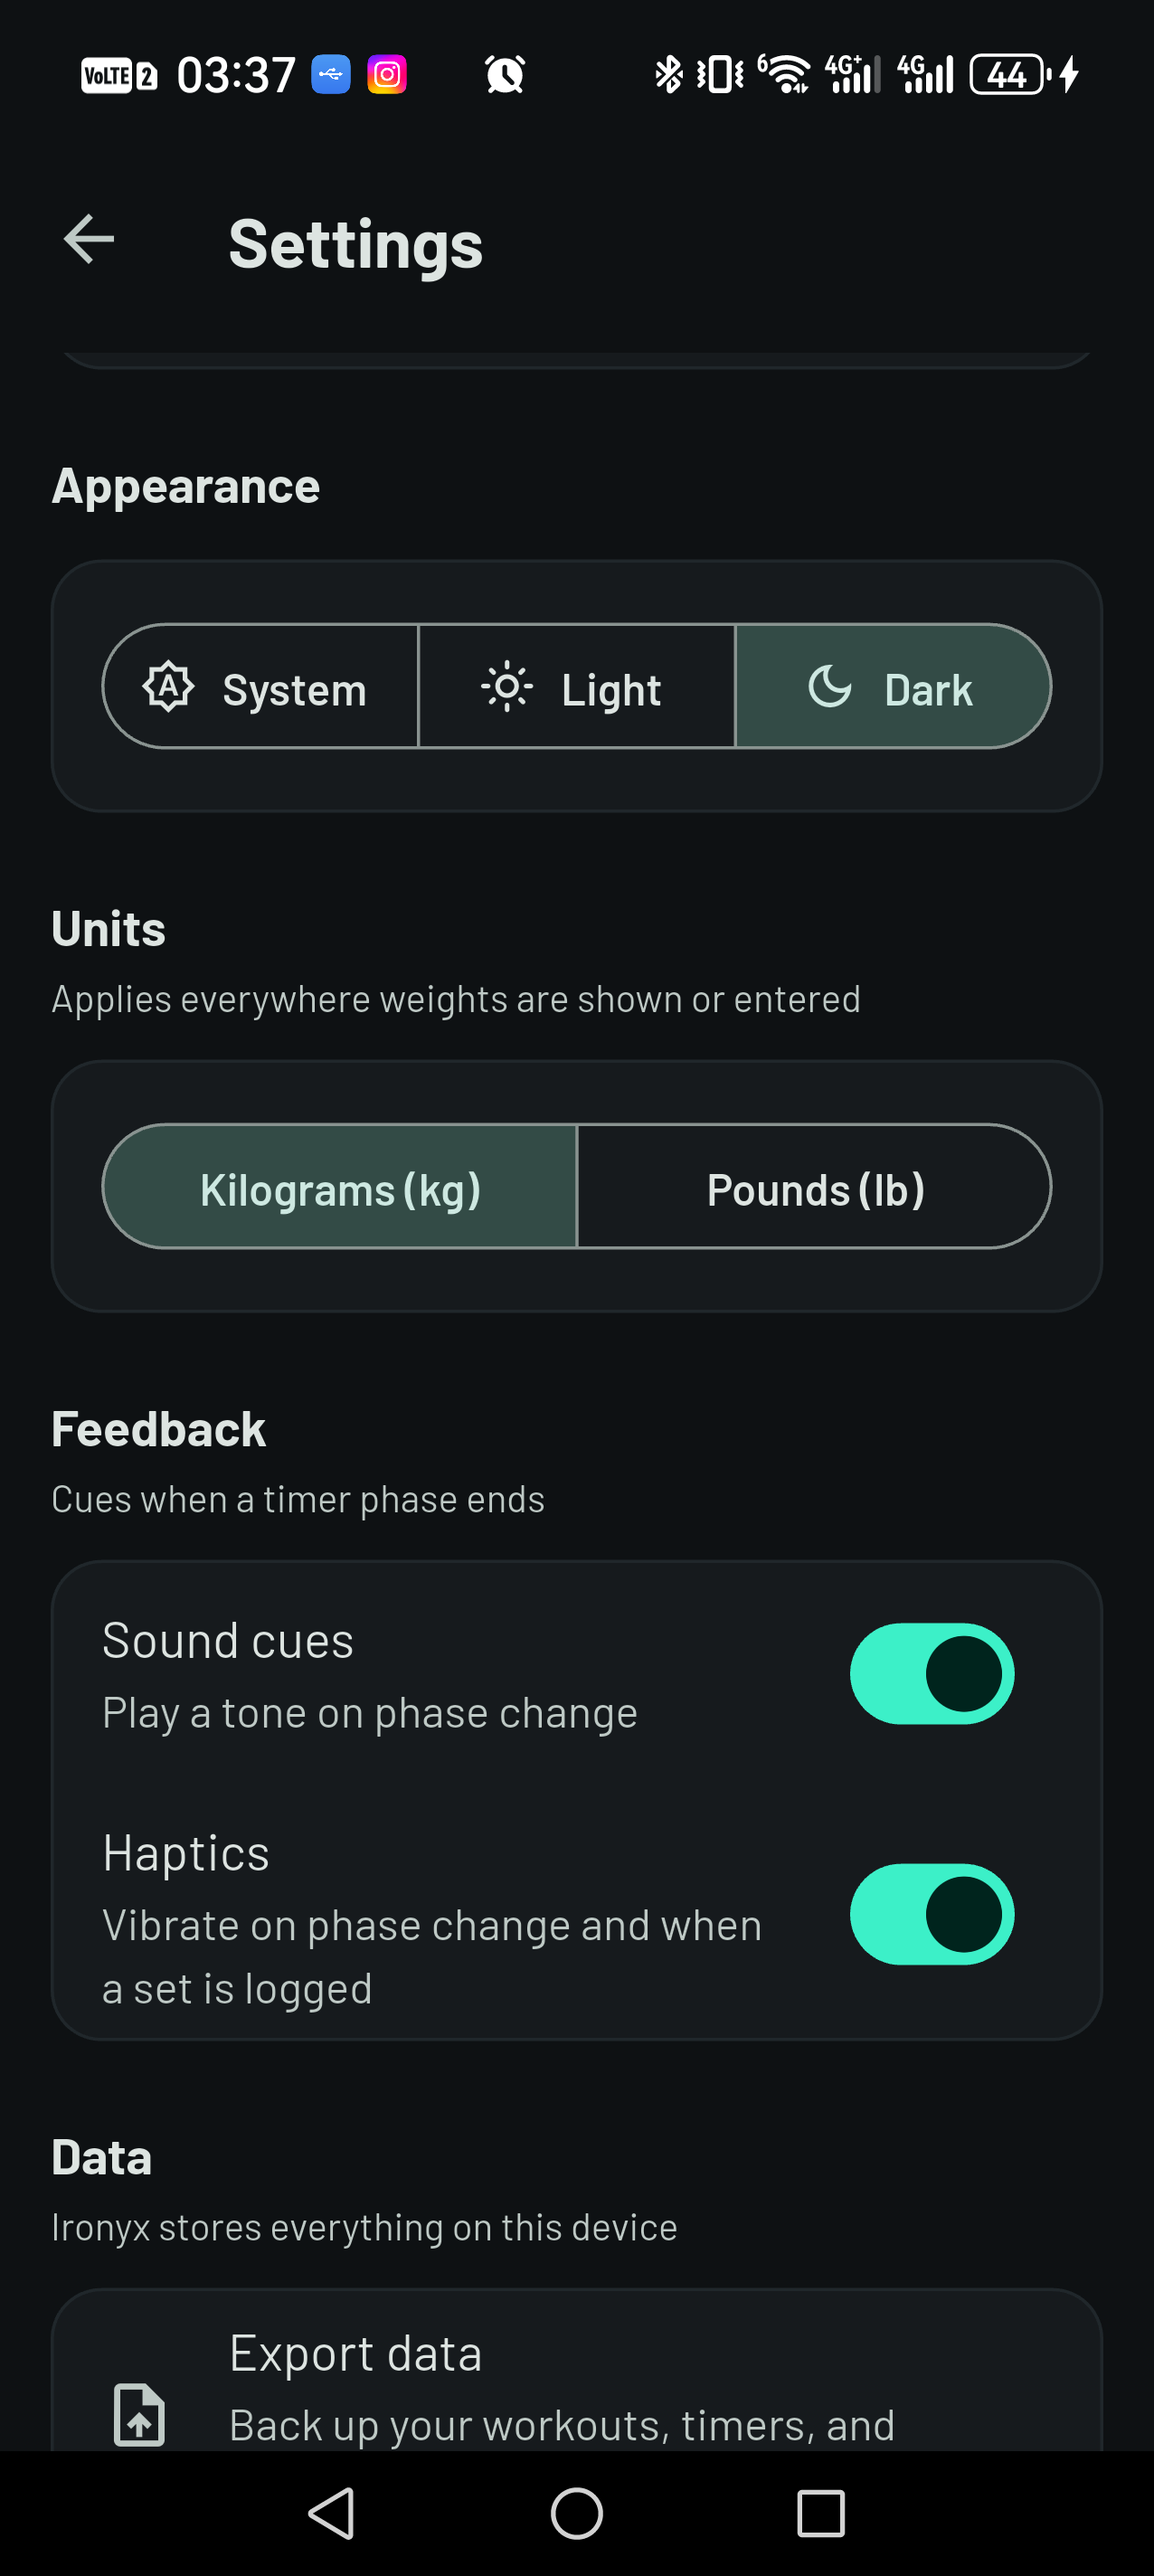
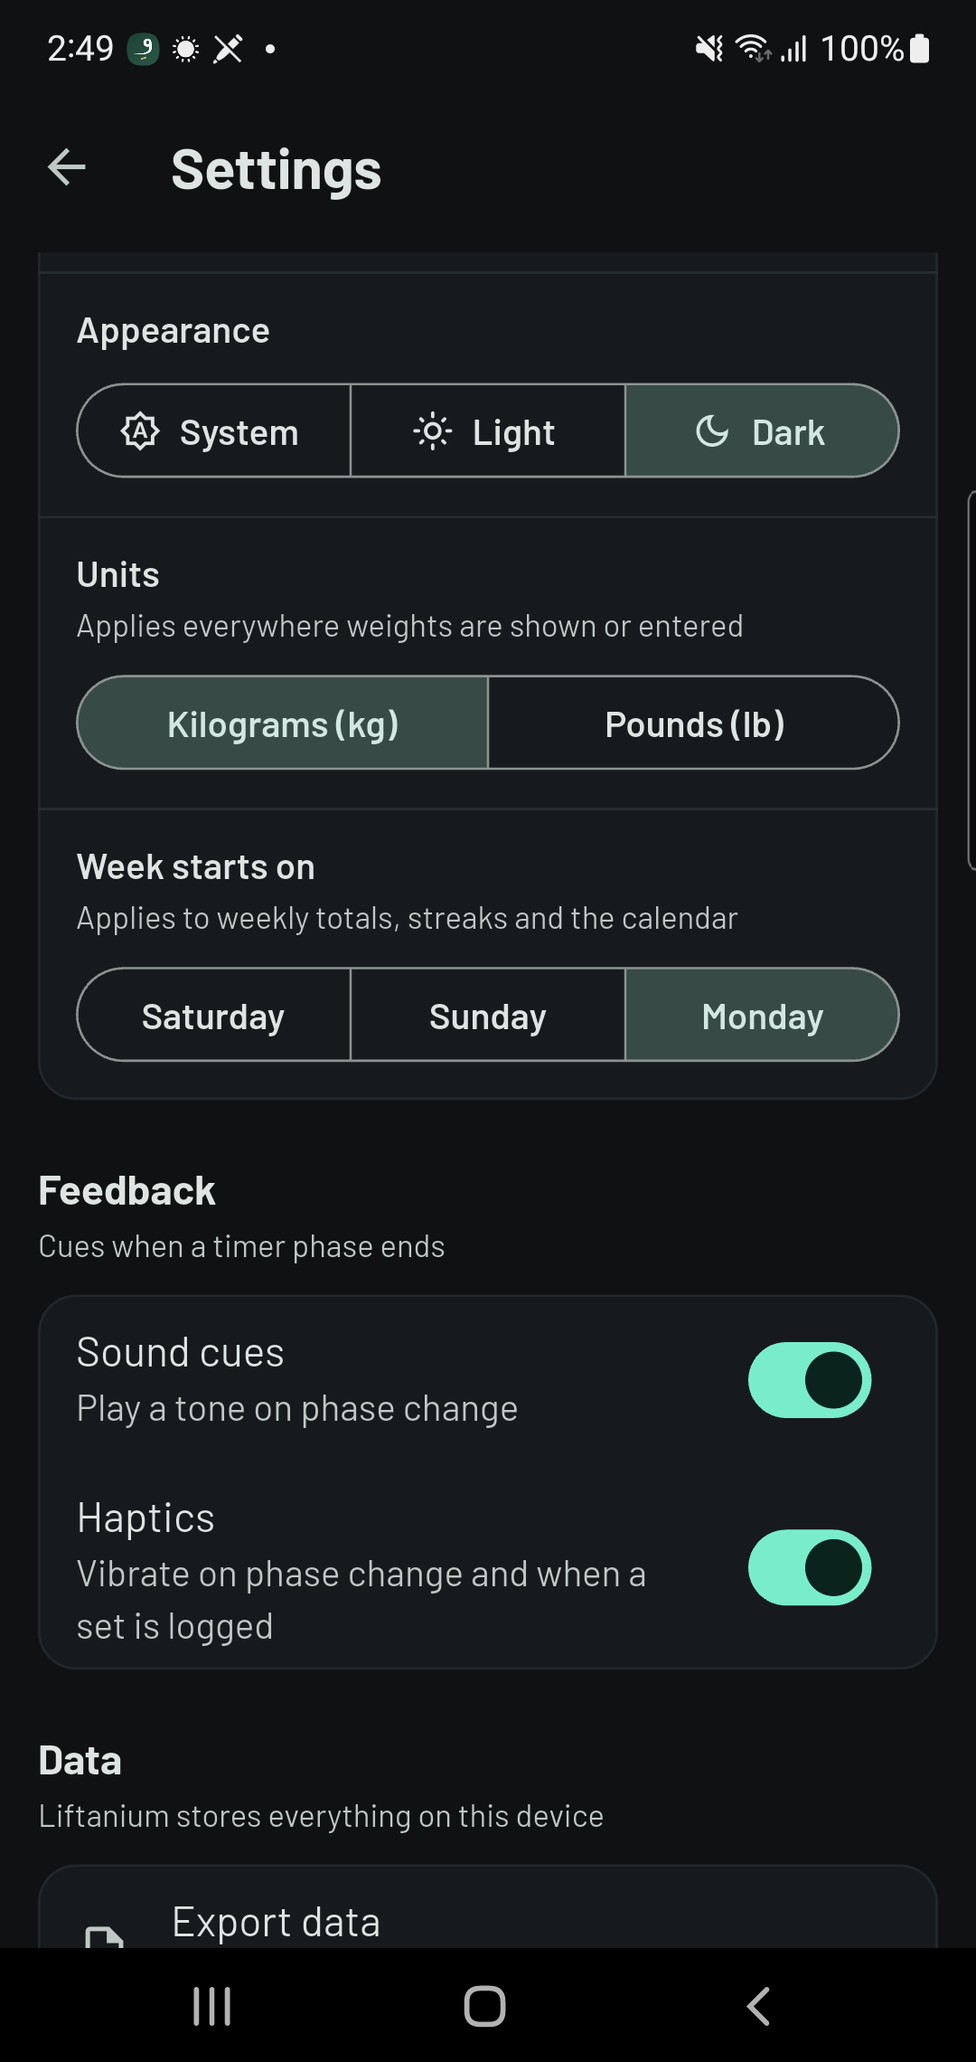
docs(store): retake screenshot 08 with the Liftanium name

diff --git a/TODO.md b/TODO.md
@@ -72,11 +72,19 @@ stores.
   (2) in Play Console change the app name to `Liftanium: Offline Workout
   Log`, paste the short and full descriptions (en, ar) from
   `docs/STORE_LISTING.md`, and replace the feature graphic with
-  `assets/branding/store-screenshots/feature-graphic.png`; (3) store
-  screenshot `08-settings-theme.png` still shows "Ironyx stores
-  everything on this device" and needs a new capture (phone use needs
-  the owner's approval), so leave it out of the listing until then. A
-  name change goes through Play review like any listing change.
+  `assets/branding/store-screenshots/feature-graphic.png`, and
+  screenshot 08 if it is in the listing. A name change goes through Play
+  review like any listing change.
+- **Screenshot `08-settings-theme.png` retaken, 2026-11-15**
+  (owner-approved phone use; SM N970F, debug copy 1.0.7 built from
+  `d963a43`, installed over this morning's debug copy; the Play app,
+  1.0.5, was not opened or changed). **Checked on the phone:** Settings
+  reads "Liftanium stores everything on this device". The new file is
+  1080×2280, where the other captures are 1276×2848 from an earlier
+  phone, and it shows today's Settings (it has "Week starts on").
+  **Not checked on the phone:** the launcher label, the welcome page,
+  the About box and export file names. The debug copy is left installed.
+  Evidence: `C:\Users\musta\Projects\ironyx-phone-audit\2026-11-15-rename`.
 
 **Phone check, 2026-11-15, SM N970F, debug copy of `main` at `c4f83e2`**
 (owner-approved; the Play app, 1.0.5, was not opened or changed). The
